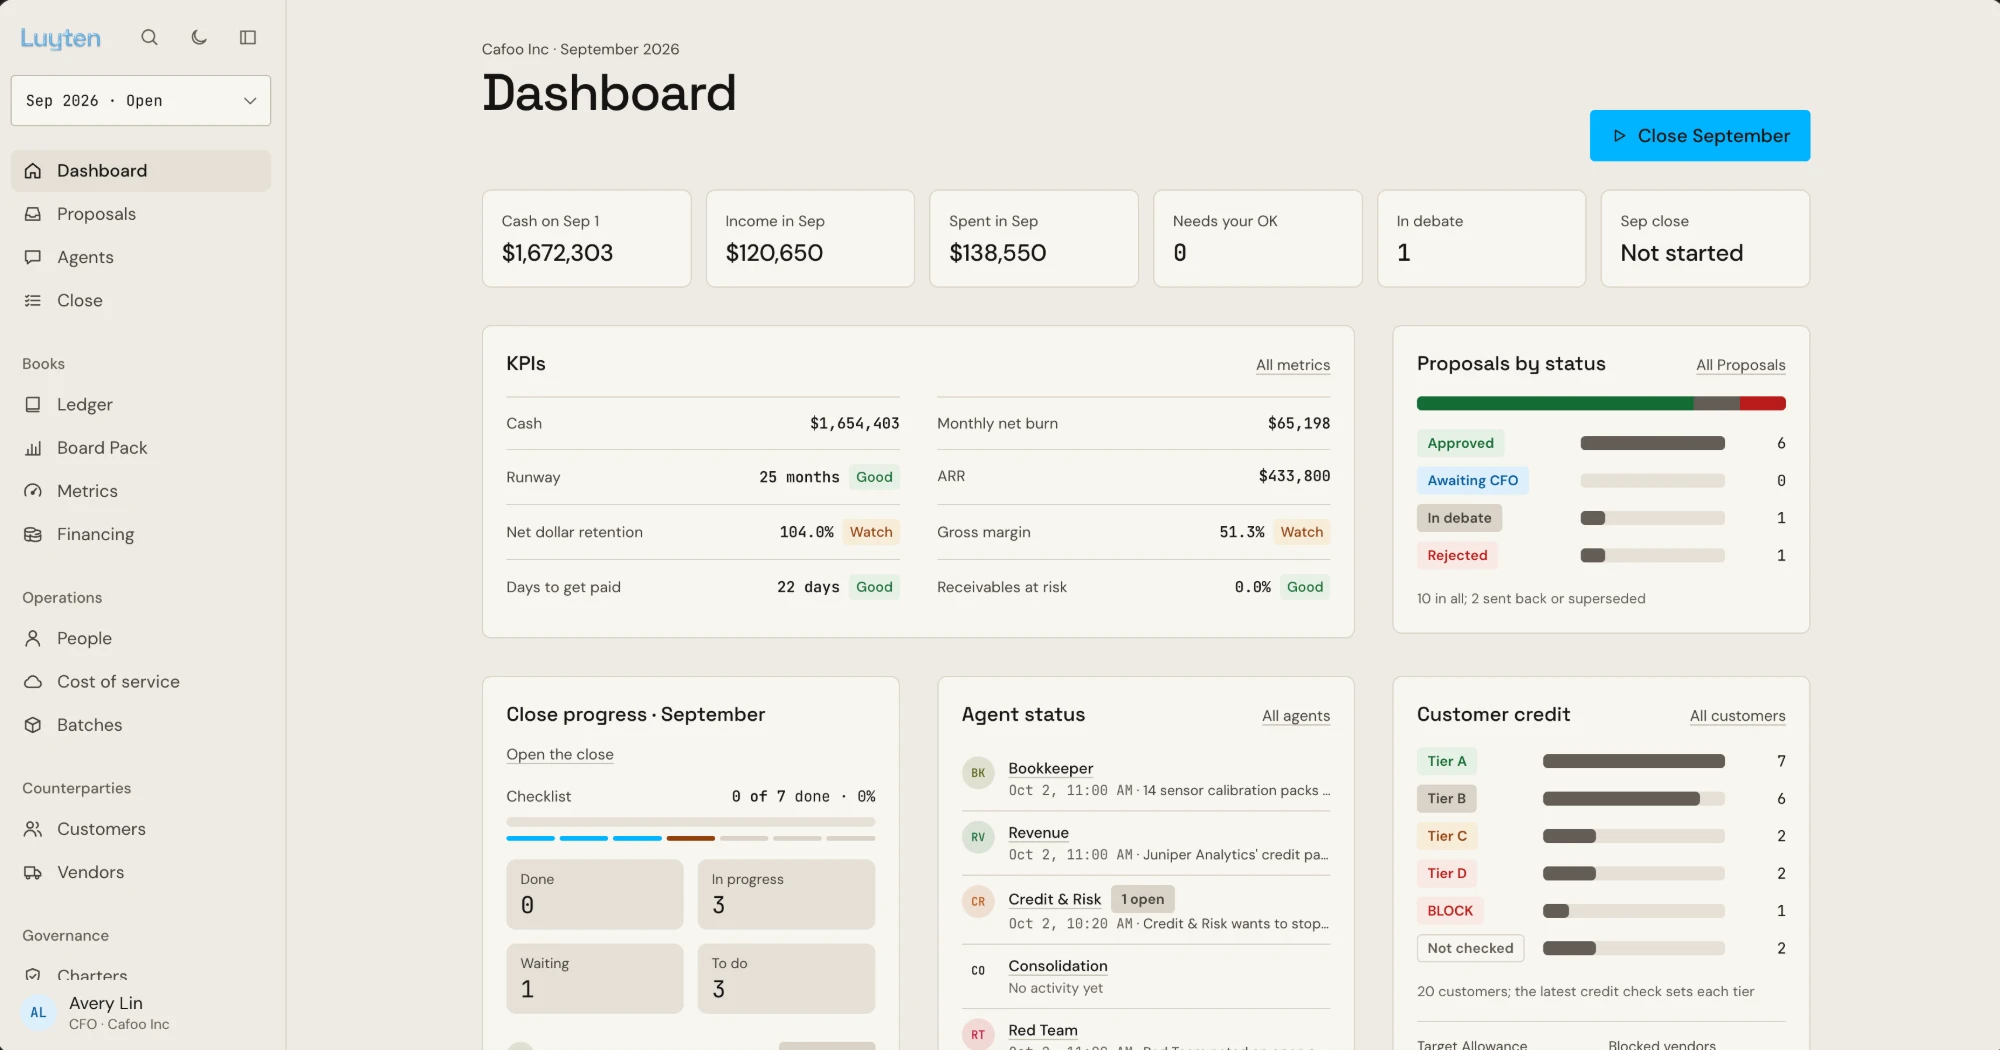
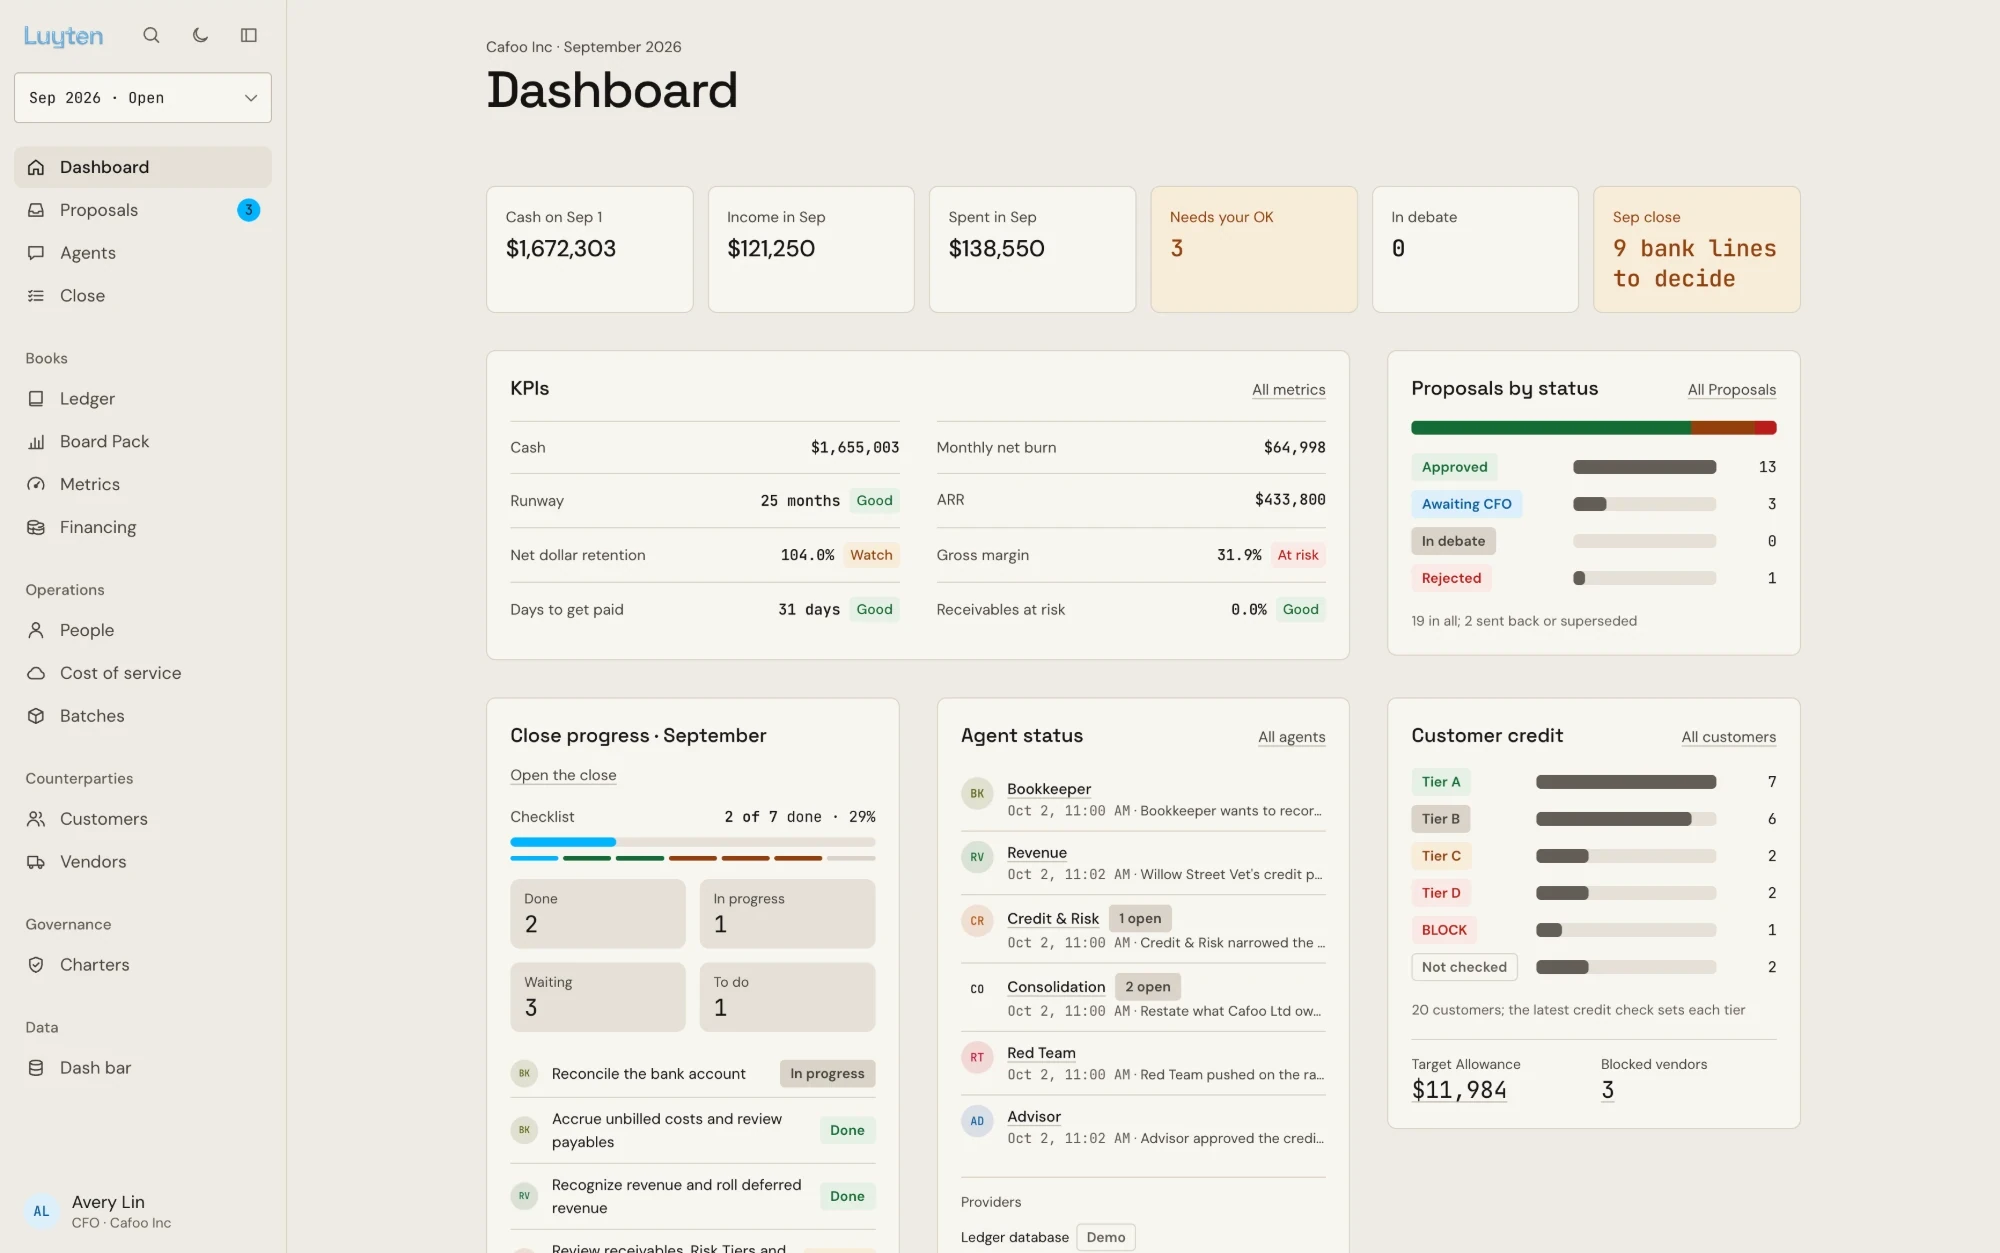
Use the busier September screenshot, whole and rounded on every corner
The landing screenshot now shows three items waiting for the CFO's OK
and nine bank lines to decide; the black screenshot strip across its
top is cropped off (2000x1253). The image gets rounded-lg on all four
corners, so it no longer runs off the frame's bottom edge: the frame
drops its fixed aspect and pads 7% of sky on every side (the content
column already insets it from lg up).

diff --git a/apps/web/src/routes/(marketing)/+page.svelte b/apps/web/src/routes/(marketing)/+page.svelte
@@ -131,18 +131,18 @@
 				</div>
 			</div>
 		</section>
-		<!-- The product itself, set into the painted sky and cut off by the frame's bottom edge. -->
+		<!-- The product itself, set whole into the painted sky with sky showing on every side. -->
 		<div id="hero-art" class="wide pb-16 sm:pb-24">
-			<PaintedFrame seed={11} class="aspect-[16/9] pt-[7%] lg:aspect-21/10">
+			<PaintedFrame seed={11} class="p-[7%] lg:px-0">
 				<!-- Back on the content column, so the product lines up with the headline above. -->
 				<div class="wide-content">
 				<img
 					src="/product/launchpad.webp"
 					width="2000"
-					height="1050"
+					height="1253"
 					fetchpriority="high"
-					alt="The Luyten Dashboard for September 2026: cash, income and spend, one proposal in debate, the KPIs, proposals by status, close progress, agent status and customer credit."
-					class="block w-full rounded-t-xl border border-line shadow-[0_24px_64px_rgb(0_0_0/0.35)]"
+					alt="The Luyten Dashboard for September 2026: cash, income and spend, three items waiting for the CFO's OK, nine bank lines to decide before the close, the KPIs, proposals by status, close progress, agent status and customer credit."
+					class="block w-full rounded-lg border border-line shadow-[0_24px_64px_rgb(0_0_0/0.35)]"
 				/>
 				</div>
 			</PaintedFrame>
